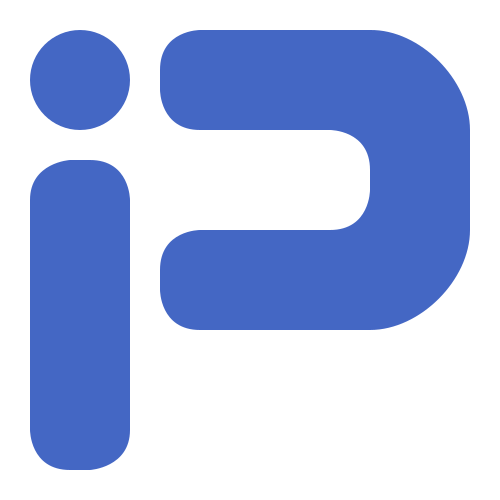
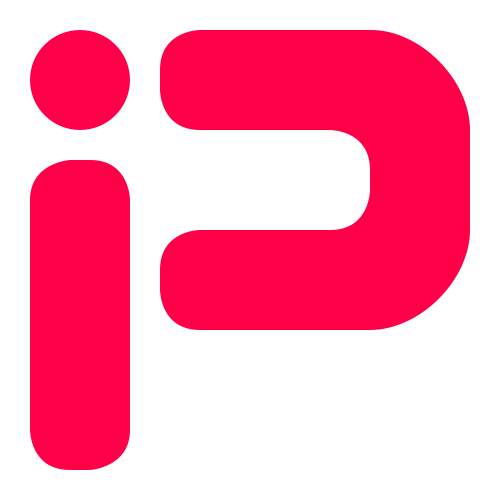
Update Profile

diff --git a/README.md b/README.md
@@ -10,6 +10,7 @@
 **Enabled my public key**: [File](https://github.com/piquark6046/piquark6046/blob/master/OpenPGP/PiQuark6046_0x4F8F1257_public.asc) ([keys.openpgp.org](https://keys.openpgp.org/vks/v1/by-fingerprint/8D5C43991A8B4471A11CD0BF7F418E734F8F1257)) [`8D5C 4399 1A8B 4471 A11C  D0BF 7F41 8E73 4F8F 1257`]
 
 ### Docs
+* [Personal Preferences](https://github.com/piquark6046/piquark6046/blob/master/docs/preferences.md)
 * [PiQuark6046's History](https://github.com/piquark6046/piquark6046/blob/master/docs/History.md)
 
 ### Organization

diff --git a/docs/preferences.md b/docs/preferences.md
@@ -1,0 +1,4 @@
+**[Back](https://github.com/piquark6046/piquark6046)**
+
+### Colors
+##0d1117 #ff0048 #4467c4
